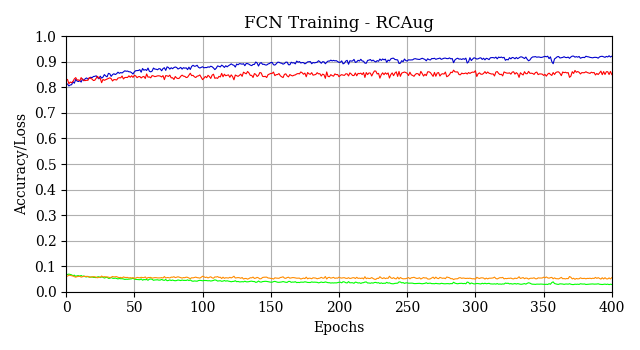
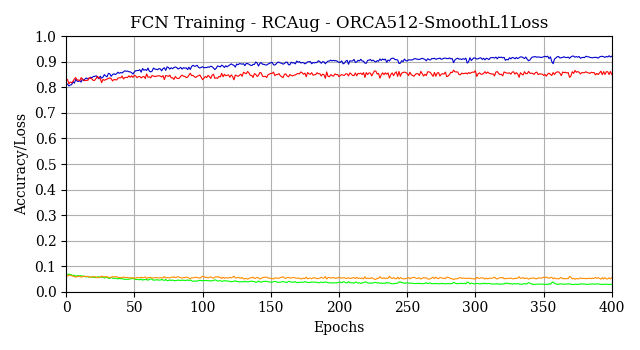
Small corrections

Changed region(s): [[0.1875, 0.0286, 0.875, 0.0857]]

diff --git a/sourcecode/plot_graph_utils.py b/sourcecode/plot_graph_utils.py
@@ -2,7 +2,7 @@ import csv
 import matplotlib.pyplot as plt
 import numpy as np
 
-def plot_graph(csv_filename, fig_filename, legend=False, show=False):
+def plot_graph(csv_filename, fig_filename, legend=False, show=False, title='FCN Training - RCAug'):
     xdata1 = []
     ydata1 = []
     ydata2 = []
@@ -42,7 +42,7 @@ def plot_graph(csv_filename, fig_filename, legend=False, show=False):
 
     plt.xlabel('Epochs')
     plt.ylabel('Accuracy/Loss')
-    plt.title('FCN Training - RCAug')
+    plt.title(title)
     plt.grid()
     if legend:
         plt.legend(loc="lower left", bbox_to_anchor=(0.66, 0.43))

diff --git a/sourcecode/ORCA/orca_train.py b/sourcecode/ORCA/orca_train.py
@@ -19,7 +19,7 @@ def train_model_with_validation(dataloaders,
                                 model=None,
                                 patch_size=(640, 640),
                                 n_epochs=1,
-                                start_epoch=start_epoch,
+                                start_epoch=1,
                                 batch_size=1,
                                 use_cuda=True,
                                 output_dir="../../models",

diff --git a/sourcecode/ORCA/orca_train_512x512.py b/sourcecode/ORCA/orca_train_512x512.py
@@ -29,7 +29,7 @@ def train_model_with_validation(dataloaders,
 
     # Checking for GPU availability
     device = torch.device("cuda" if torch.cuda.is_available() else "cpu") if use_cuda else "cpu"
-    logger.info('Runing on: {} | GPU available? {}'.format(device, torch.cuda.is_available()))
+    logger.info('Running on: {} | GPU available? {}'.format(device, torch.cuda.is_available()))
     filename = None
 
     torch.cuda.empty_cache()

diff --git a/sourcecode/ORCA/orca_plot_512x512.py b/sourcecode/ORCA/orca_plot_512x512.py
@@ -16,4 +16,4 @@ if __name__ == '__main__':
 
     for fname in filename:
         print('Ploting: '+fname)
-        plot_graph(dir+fname+'.csv', dir+fname+'.png', False, False)
+        plot_graph(dir+fname+'.csv', dir+fname+'.png', False, False, 'FCN Training - RCAug - '+fname[4:])
